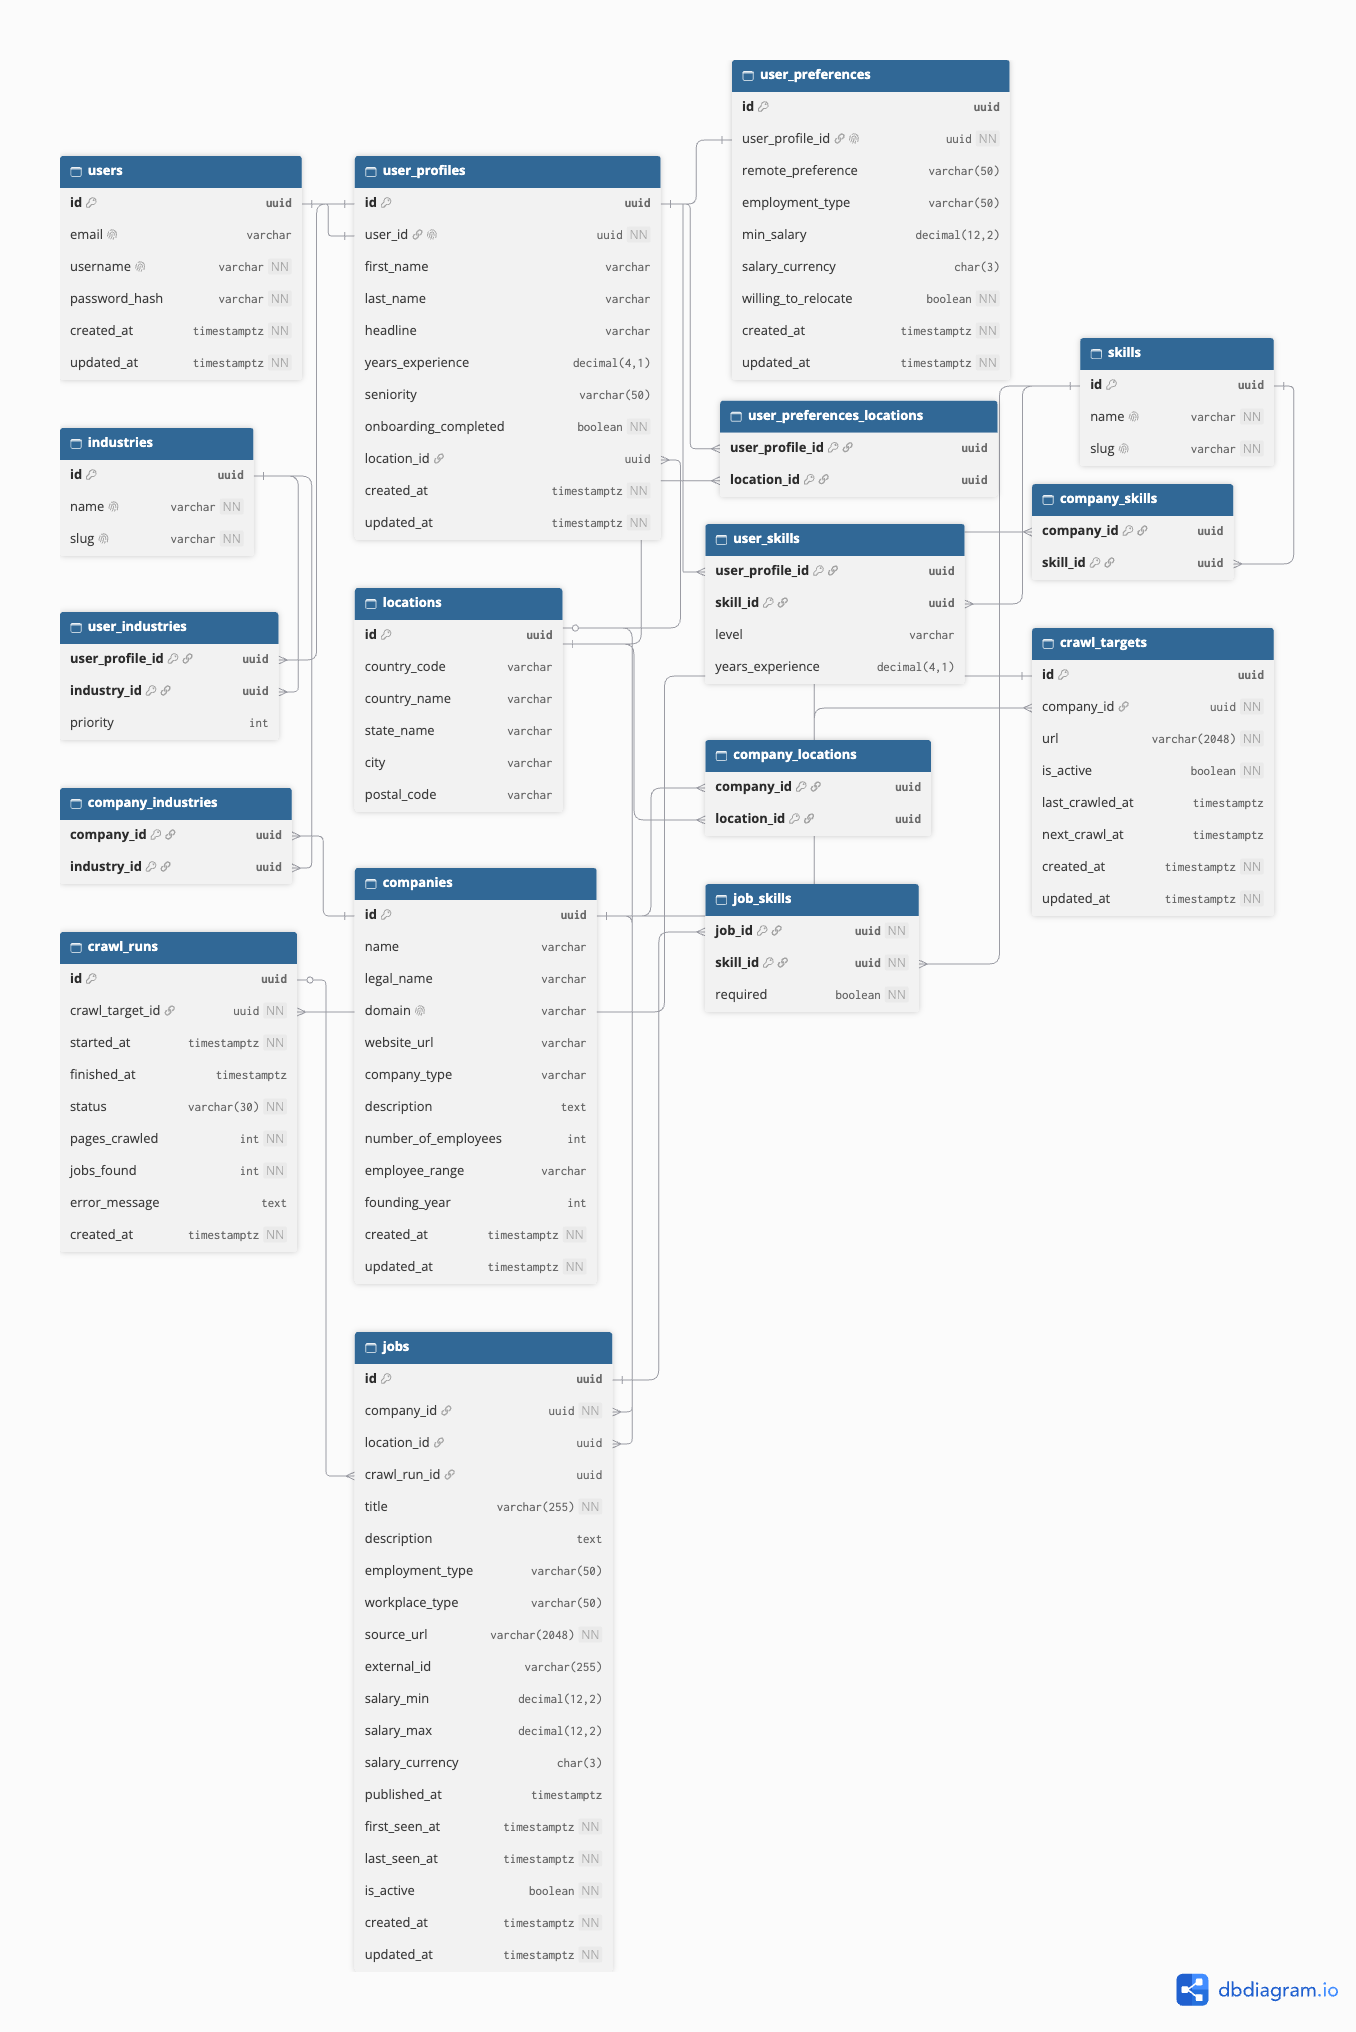
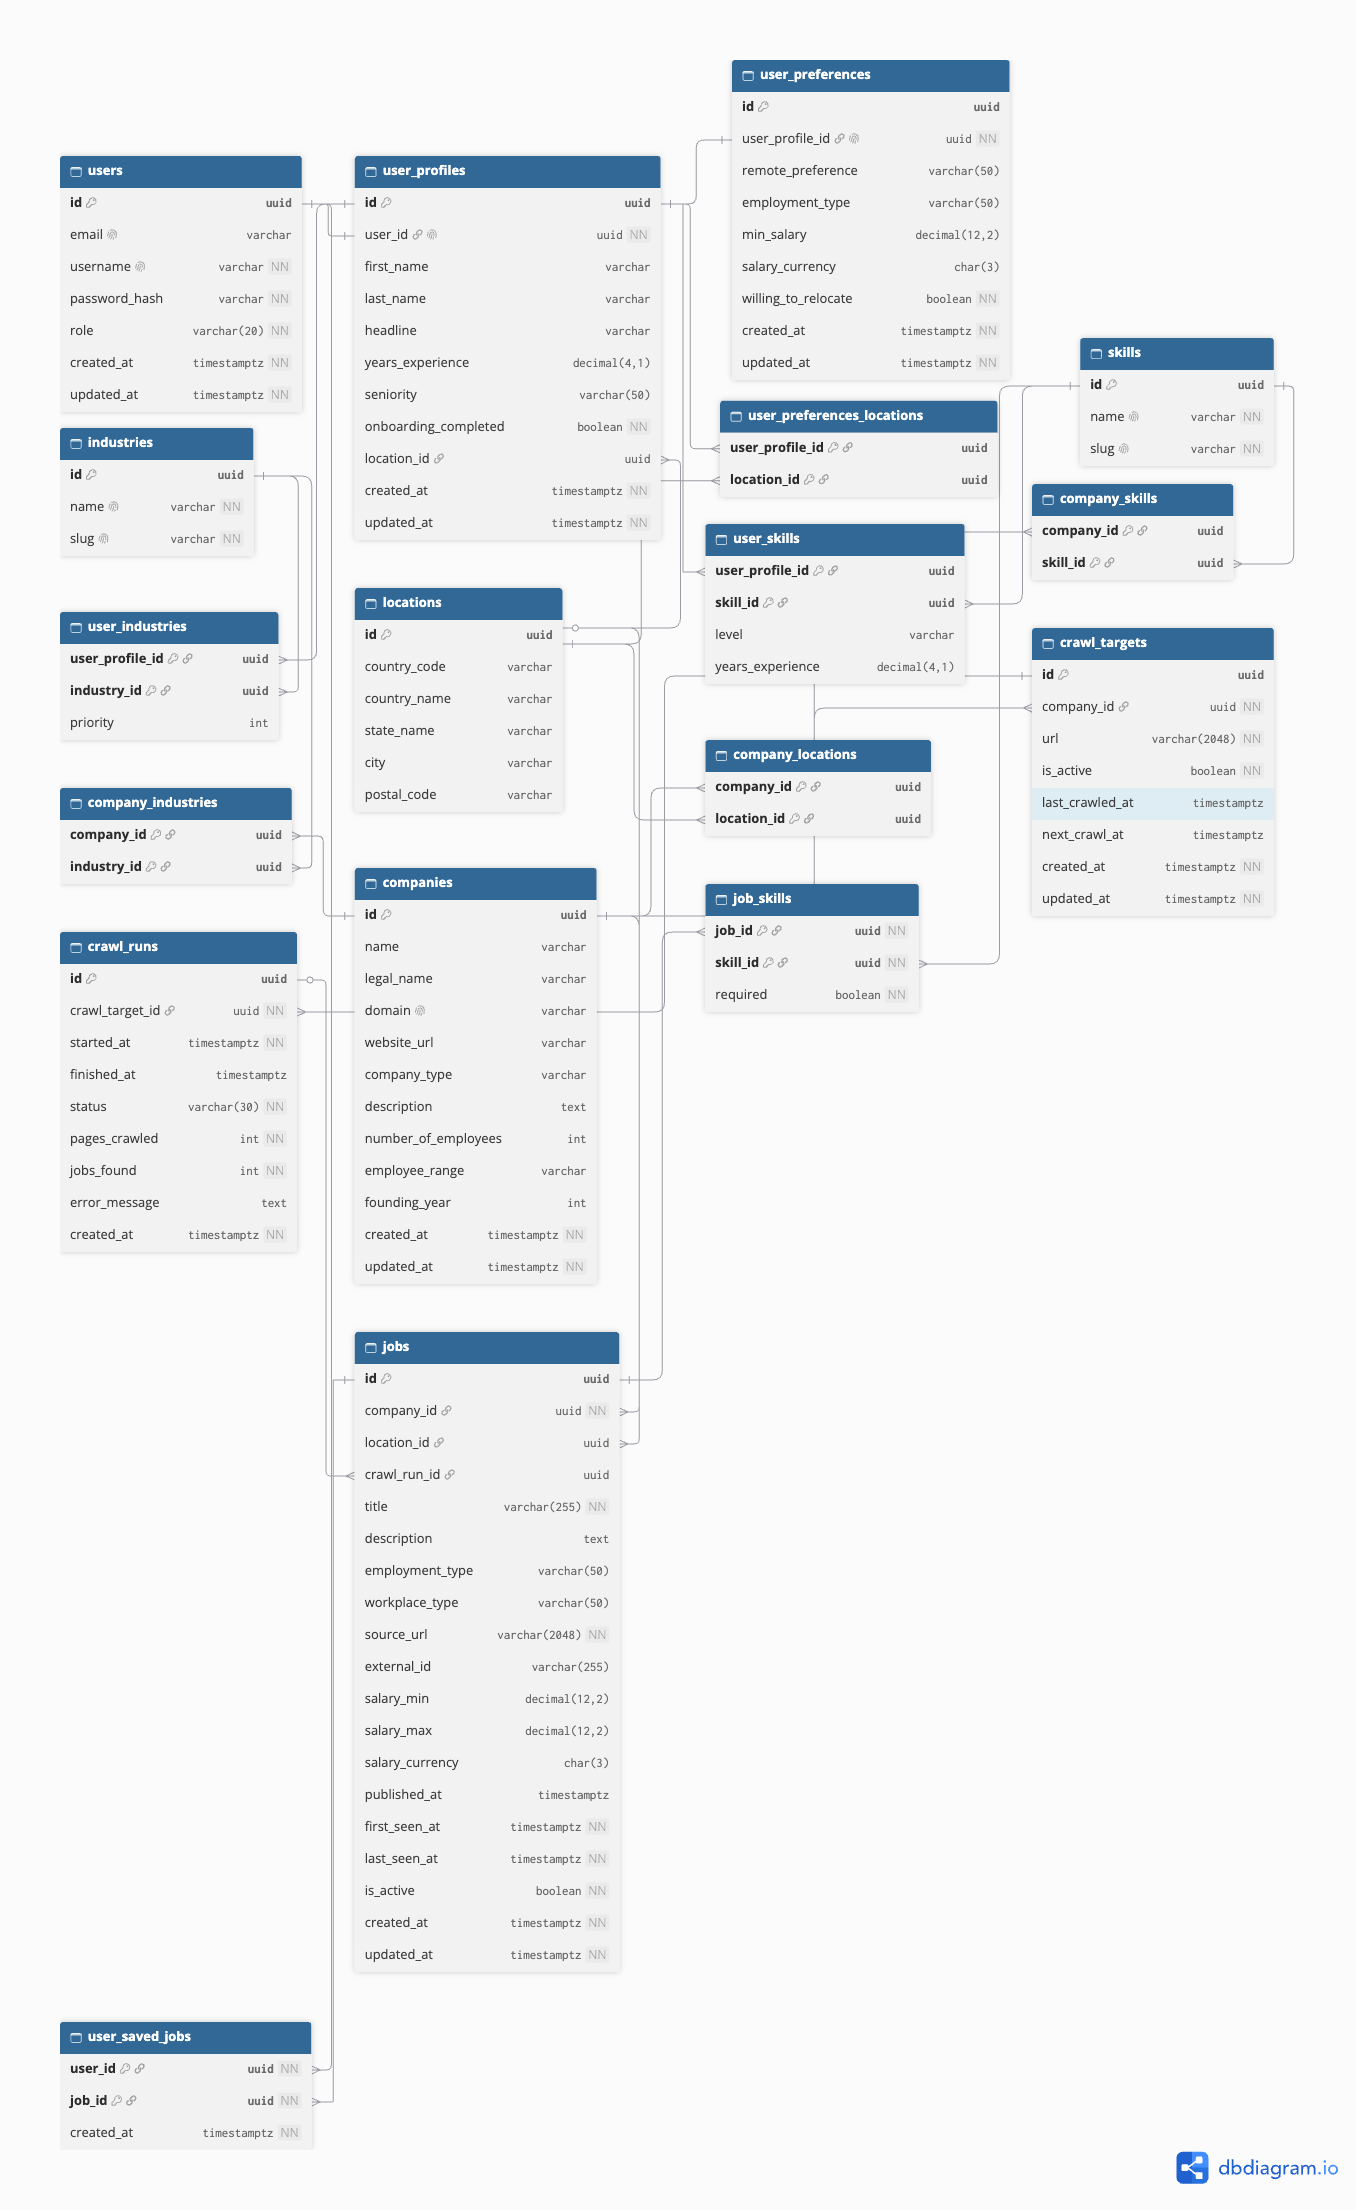
refactor(backend): add role-based access control (#103)
* docs(doc): add ADR for role-based access control

* feat(backend): add role column to users

* feat: add user roles to the jwt

* docs(doc): add users role to db schema

* feat(backend): add roles decorator and guard

* feat(backend): restrict job and company changes to admins

* docs(backend): add admin login to bruno

* docs(doc): accept ADR for role-based access control

* fix(backend): reject tokens without a valid role

* Fix(backend):edge case for route has both @Public() and @Roles(...)

* fix(backend): restrict company routes to admins

* chore(backend): keep bruno tokens and admin password secret

* refactor(backend,shared): build the role check from USER_ROLES

* fix(backend): allow a missing user in the roles guard

* fix(backend): restrict ai supplement to admins

---------

diff --git a/apps/backend/src/jobs/jobs.controller.ts b/apps/backend/src/jobs/jobs.controller.ts
@@ -24,12 +24,14 @@ import {
 } from '@nestjs/common';
 import {
   ApiBearerAuth,
+  ApiForbiddenResponse,
   ApiOperation,
   ApiQuery,
   ApiTags,
 } from '@nestjs/swagger';
 
 import type { RequestWithUser } from '../auth/request-with-user.js';
+import { Roles } from '../common/decorators/roles.decorator.js';
 import {
   type CreateJobRequest,
   createJobSchema,
@@ -47,6 +49,8 @@ export class JobsController {
   constructor(private readonly jobsService: JobsService) {}
 
   @Post()
+  @Roles('admin')
+  @ApiForbiddenResponse({ description: 'Admin only' })
   @ApiOperation({ summary: 'Create a job with its skills (by slug)' })
   create(
     @Body({ schema: createJobSchema, pipes: [StandardSchemaValidationPipe] })
@@ -111,6 +115,8 @@ export class JobsController {
   }
 
   @Patch(':id')
+  @Roles('admin')
+  @ApiForbiddenResponse({ description: 'Admin only' })
   @ApiOperation({
     summary:
       'Update a job (omitted fields stay unchanged, null clears; skills replace the whole list)',
@@ -124,6 +130,8 @@ export class JobsController {
   }
 
   @Delete(':id')
+  @Roles('admin')
+  @ApiForbiddenResponse({ description: 'Admin only' })
   @HttpCode(HttpStatus.NO_CONTENT)
   @ApiOperation({ summary: 'Delete a job and its skills' })
   remove(@Param('id', ParseUUIDPipe) id: string): Promise<void> {

diff --git a/apps/backend/src/auth/jwt.strategy.ts b/apps/backend/src/auth/jwt.strategy.ts
@@ -1,5 +1,5 @@
-import type { AuthUser } from '@job-scraper/shared';
-import { Injectable } from '@nestjs/common';
+import { type AuthUser, userRoleSchema } from '@job-scraper/shared';
+import { Injectable, UnauthorizedException } from '@nestjs/common';
 import { ConfigService } from '@nestjs/config';
 import { PassportStrategy } from '@nestjs/passport';
 import { ExtractJwt, Strategy } from 'passport-jwt';
@@ -9,6 +9,8 @@ import type { Env } from '../config/env.js';
 interface JwtPayload {
   sub: string;
   username: string;
+  // Tokens issued before roles existed have none, so it is checked below.
+  role?: unknown;
 }
 
 @Injectable()
@@ -22,6 +24,10 @@ export class JwtStrategy extends PassportStrategy(Strategy) {
   }
 
   validate(payload: JwtPayload): AuthUser {
-    return { id: payload.sub, username: payload.username };
+    const role = userRoleSchema.safeParse(payload.role);
+    if (!role.success) {
+      throw new UnauthorizedException('Token has no valid role, log in again');
+    }
+    return { id: payload.sub, username: payload.username, role: role.data };
   }
 }

diff --git a/apps/backend/src/auth/roles.guard.ts b/apps/backend/src/auth/roles.guard.ts
@@ -1,0 +1,30 @@
+import type { UserRole } from '@job-scraper/shared';
+import {
+  type CanActivate,
+  type ExecutionContext,
+  Injectable,
+} from '@nestjs/common';
+import { Reflector } from '@nestjs/core';
+
+import { ROLES_KEY } from '../common/decorators/roles.decorator.js';
+import type { RequestWithUser } from './request-with-user.js';
+
+@Injectable()
+export class RolesGuard implements CanActivate {
+  constructor(private readonly reflector: Reflector) {}
+
+  canActivate(context: ExecutionContext): boolean {
+    const roles = this.reflector.getAllAndOverride<UserRole[] | undefined>(
+      ROLES_KEY,
+      [context.getHandler(), context.getClass()],
+    );
+    if (!roles || roles.length === 0) {
+      return true;
+    }
+    // A @Public() route has no user.
+    const { user } = context
+      .switchToHttp()
+      .getRequest<Partial<RequestWithUser>>();
+    return user !== undefined && roles.includes(user.role);
+  }
+}

diff --git a/apps/backend/src/app.module.ts b/apps/backend/src/app.module.ts
@@ -8,6 +8,7 @@ import { AppController } from './app.controller.js';
 import { AppService } from './app.service.js';
 import { AuthModule } from './auth/auth.module.js';
 import { JwtAuthGuard } from './auth/jwt-auth.guard.js';
+import { RolesGuard } from './auth/roles.guard.js';
 import { CompaniesModule } from './companies/companies.module.js';
 import { type Env, envSchema } from './config/env.js';
 import { createDataSourceOptions } from './db/data-source.options.js';
@@ -37,6 +38,10 @@ import { UsersModule } from './users/users.module.js';
     StatsModule,
   ],
   controllers: [AppController],
-  providers: [AppService, { provide: APP_GUARD, useClass: JwtAuthGuard }],
+  providers: [
+    AppService,
+    { provide: APP_GUARD, useClass: JwtAuthGuard },
+    { provide: APP_GUARD, useClass: RolesGuard },
+  ],
 })
 export class AppModule {}

diff --git a/apps/backend/src/db/migrations/1793183028117-AddRoleToUsers.ts b/apps/backend/src/db/migrations/1793183028117-AddRoleToUsers.ts
@@ -1,0 +1,22 @@
+import type { MigrationInterface, QueryRunner } from 'typeorm';
+
+/** Gives every user a role; existing and new users start as "user". */
+export class AddRoleToUsers1793183028117 implements MigrationInterface {
+  name = 'AddRoleToUsers1793183028117';
+
+  public async up(queryRunner: QueryRunner): Promise<void> {
+    await queryRunner.query(
+      `ALTER TABLE "users" ADD "role" character varying(20) NOT NULL DEFAULT 'user'`,
+    );
+    await queryRunner.query(
+      `ALTER TABLE "users" ADD CONSTRAINT "CHK_users_role" CHECK ("role" IN ('user', 'admin'))`,
+    );
+  }
+
+  public async down(queryRunner: QueryRunner): Promise<void> {
+    await queryRunner.query(
+      `ALTER TABLE "users" DROP CONSTRAINT "CHK_users_role"`,
+    );
+    await queryRunner.query(`ALTER TABLE "users" DROP COLUMN "role"`);
+  }
+}

diff --git a/apps/backend/src/jobs/crawler/job-crawler.controller.ts b/apps/backend/src/jobs/crawler/job-crawler.controller.ts
@@ -1,7 +1,13 @@
 import type { JobListItem } from '@job-scraper/shared';
 import { Controller, Param, ParseUUIDPipe, Post } from '@nestjs/common';
-import { ApiBearerAuth, ApiOperation, ApiTags } from '@nestjs/swagger';
+import {
+  ApiBearerAuth,
+  ApiForbiddenResponse,
+  ApiOperation,
+  ApiTags,
+} from '@nestjs/swagger';
 
+import { Roles } from '../../common/decorators/roles.decorator.js';
 import { JobCrawlerService } from './job-crawler.service.js';
 
 @ApiTags('jobs')
@@ -11,6 +17,8 @@ export class JobCrawlerController {
   constructor(private readonly jobCrawlerService: JobCrawlerService) {}
 
   @Post('crawl/:companyId')
+  @Roles('admin')
+  @ApiForbiddenResponse({ description: 'Admin only' })
   @ApiOperation({
     summary:
       "Crawl the company's website with AI and create the jobs found there",

diff --git a/packages/shared/src/auth.ts b/packages/shared/src/auth.ts
@@ -1,5 +1,10 @@
 import { z } from 'zod';
 
+export const USER_ROLES = ['user', 'admin'] as const;
+export type UserRole = (typeof USER_ROLES)[number];
+export const userRoleSchema: z.ZodType<UserRole> = z.enum(USER_ROLES);
+export const DEFAULT_USER_ROLE: UserRole = 'user';
+
 export interface RegisterRequest {
   firstName: string;
   lastName: string;
@@ -19,6 +24,7 @@ export interface LoginResponse {
 export interface AuthUser {
   id: string;
   username: string;
+  role: UserRole;
 }
 
 export interface PublicUser {
@@ -51,6 +57,7 @@ export const loginResponseSchema: z.ZodType<LoginResponse> = z.object({
 export const authUserSchema: z.ZodType<AuthUser> = z.object({
   id: z.uuid(),
   username: z.string(),
+  role: userRoleSchema,
 });
 
 export const publicUserSchema: z.ZodType<PublicUser> = z.object({

diff --git a/apps/backend/src/ai/ai.controller.ts b/apps/backend/src/ai/ai.controller.ts
@@ -6,7 +6,14 @@ import {
   Post,
   StandardSchemaValidationPipe,
 } from '@nestjs/common';
+import {
+  ApiBearerAuth,
+  ApiForbiddenResponse,
+  ApiOperation,
+  ApiTags,
+} from '@nestjs/swagger';
 
+import { Roles } from '../common/decorators/roles.decorator.js';
 import { AiService } from './ai.service.js';
 import {
   type SupplementRequest,
@@ -14,11 +21,16 @@ import {
   type SupplementResponse,
 } from './supplement-request.js';
 
+@ApiTags('ai')
+@ApiBearerAuth()
+@Roles('admin')
+@ApiForbiddenResponse({ description: 'Admin only' })
 @Controller('ai')
 export class AiController {
   constructor(private readonly aiService: AiService) {}
 
   @Post('supplement')
+  @ApiOperation({ summary: 'Fill in missing JSON values with AI' })
   @HttpCode(HttpStatus.OK)
   supplement(
     @Body({

diff --git a/apps/backend/src/companies/companies.controller.ts b/apps/backend/src/companies/companies.controller.ts
@@ -10,8 +10,14 @@ import {
   Query,
   StandardSchemaValidationPipe,
 } from '@nestjs/common';
-import { ApiBearerAuth, ApiOperation, ApiTags } from '@nestjs/swagger';
+import {
+  ApiBearerAuth,
+  ApiForbiddenResponse,
+  ApiOperation,
+  ApiTags,
+} from '@nestjs/swagger';
 
+import { Roles } from '../common/decorators/roles.decorator.js';
 import { CompaniesService } from './companies.service.js';
 import type { CompanyDto } from './dto/company.dto.js';
 import {
@@ -33,6 +39,8 @@ import type {
 
 @ApiTags('companies')
 @ApiBearerAuth()
+@Roles('admin')
+@ApiForbiddenResponse({ description: 'Admin only' })
 @Controller('companies')
 export class CompaniesController {
   constructor(private readonly companiesService: CompaniesService) {}

diff --git a/apps/backend/src/users/entities/user.entity.ts b/apps/backend/src/users/entities/user.entity.ts
@@ -1,4 +1,10 @@
 import {
+  DEFAULT_USER_ROLE,
+  USER_ROLES,
+  type UserRole,
+} from '@job-scraper/shared';
+import {
+  Check,
   Column,
   CreateDateColumn,
   Entity,
@@ -11,6 +17,10 @@ import {
 import { UserProfile } from './user-profile.entity.js';
 
 @Entity('users')
+@Check(
+  'CHK_users_role',
+  `"role" IN (${USER_ROLES.map((role) => `'${role}'`).join(', ')})`,
+)
 export class User {
   @PrimaryGeneratedColumn('uuid')
   id!: string;
@@ -23,6 +33,9 @@ export class User {
 
   @Column({ name: 'password_hash' })
   passwordHash!: string;
+
+  @Column({ type: 'varchar', length: 20, default: DEFAULT_USER_ROLE })
+  role!: UserRole;
 
   @CreateDateColumn({ name: 'created_at', type: 'timestamptz' })
   createdAt!: Date;

diff --git a/apps/backend/src/auth/auth.service.ts b/apps/backend/src/auth/auth.service.ts
@@ -20,7 +20,7 @@ export class AuthService {
     if (!user || !(await bcrypt.compare(password, user.passwordHash))) {
       return null;
     }
-    return { id: user.id, username: user.username };
+    return { id: user.id, username: user.username, role: user.role };
   }
 
   login(user: AuthUser): LoginResponse {
@@ -28,6 +28,7 @@ export class AuthService {
       access_token: this.jwtService.sign({
         sub: user.id,
         username: user.username,
+        role: user.role,
       }),
     };
   }

diff --git a/packages/shared/src/index.ts b/packages/shared/src/index.ts
@@ -2,6 +2,7 @@ export {
   type AuthUser,
   authUserSchema,
   createRegisterRequestSchema,
+  DEFAULT_USER_ROLE,
   type LoginRequest,
   loginRequestSchema,
   type LoginResponse,
@@ -9,6 +10,9 @@ export {
   type PublicUser,
   publicUserSchema,
   type RegisterRequest,
+  USER_ROLES,
+  type UserRole,
+  userRoleSchema,
 } from './auth';
 export { type HelloResponse, isHelloResponse } from './hello';
 export {
